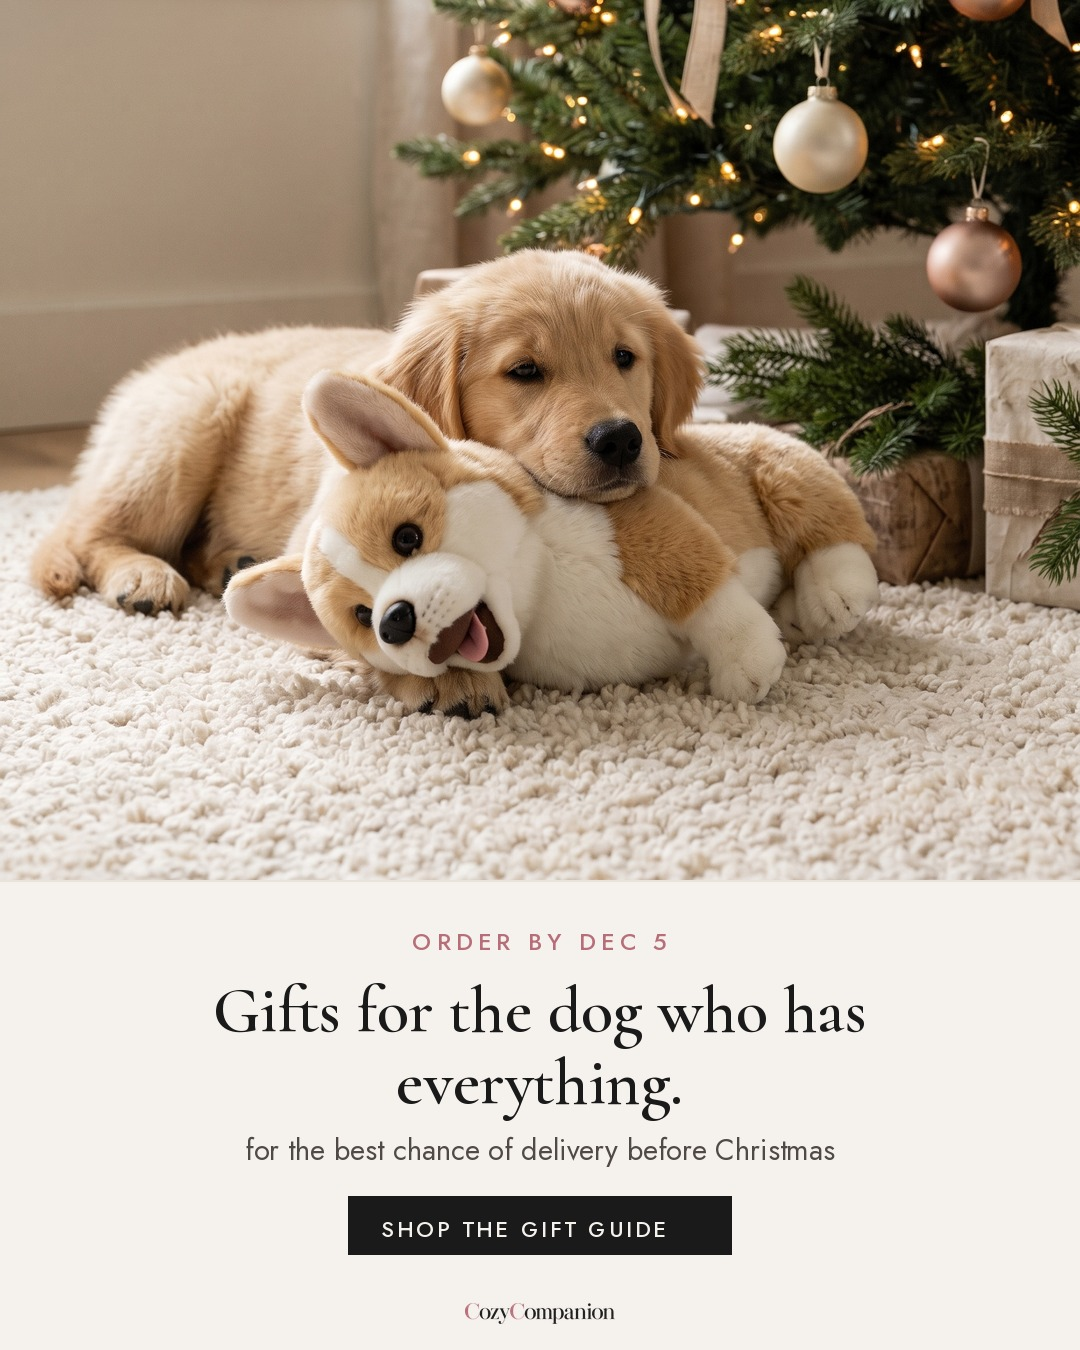
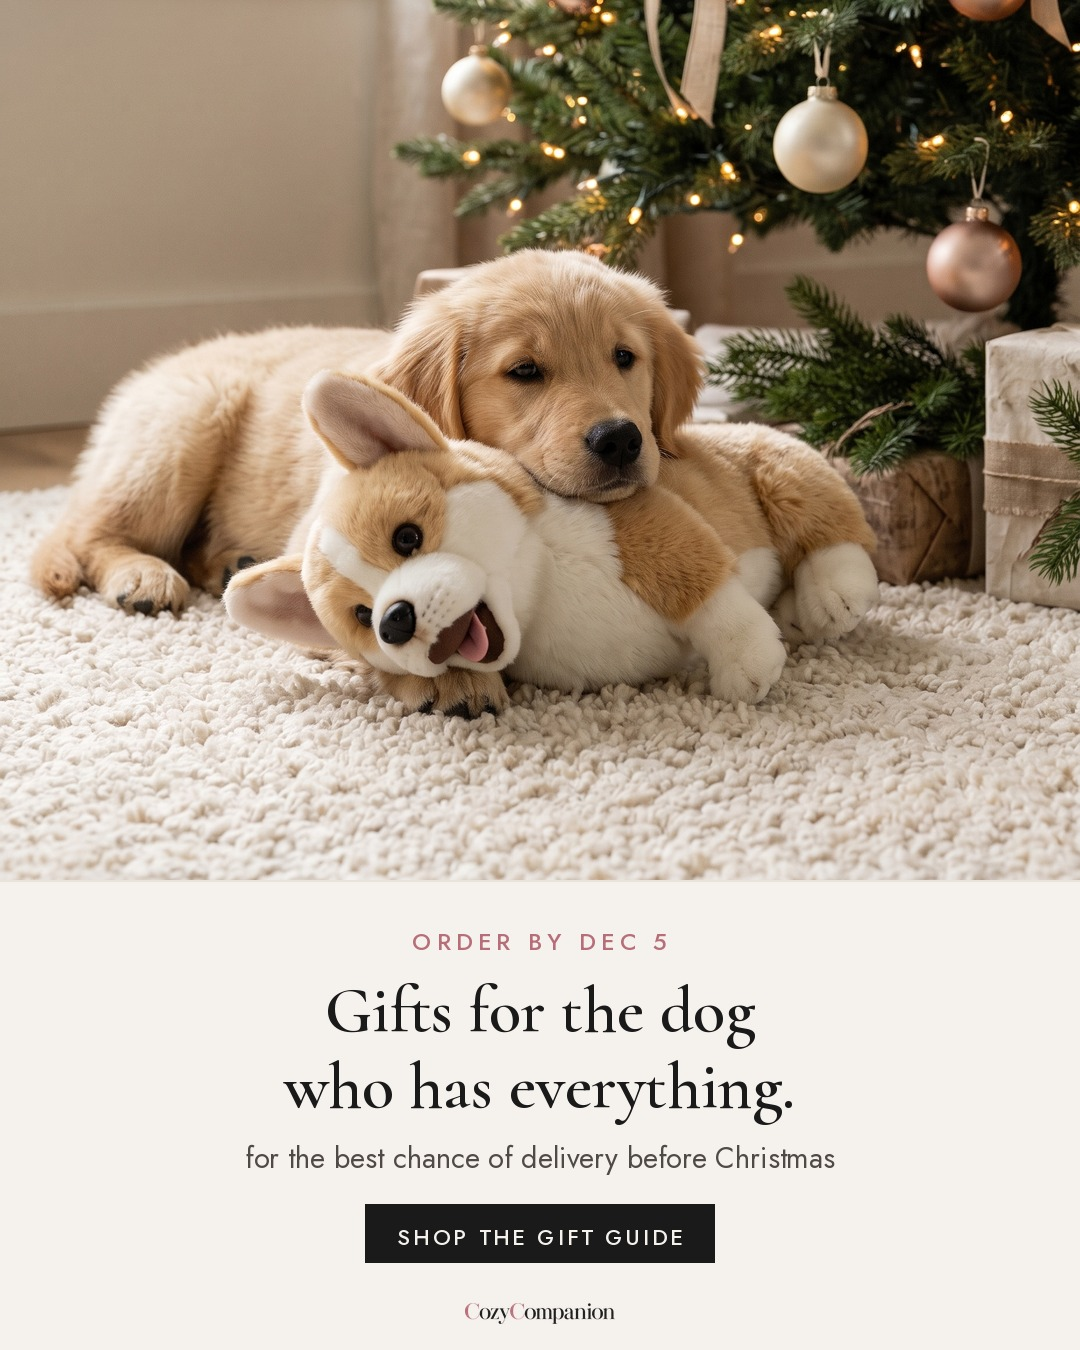
Q4 December ad creatives (interim)
Claude-Session: https://claude.ai/code/session_019n9fWS4KRciZxzszb4UYFh

Changed region(s): [[0.1833, 0.7156, 0.7944, 0.9333]]

diff --git a/cozycompanion/q4/make_dec_ads.py b/cozycompanion/q4/make_dec_ads.py
@@ -23,12 +23,12 @@ def photo(name):
 
 # id: eyebrow, headline, line, cta, 4:5 photo (+focus y), 9:16 photo (+focus y)
 ADS = {
-    "D1":  ("THE COZY SEASON", "Gifts for the dog who has everything.", None, "Shop the gift guide", ("f_2026-12-02_1_raw", .62), ("st_2026-12-02_raw", .52)),
-    "D1b": ("ORDER BY DEC 5", "Gifts for the dog who has everything.", "for the best chance of delivery before Christmas", "Shop the gift guide", ("f_2026-12-02_1_raw", .62), ("st_2026-12-02_raw", .52)),
-    "D2":  ("THE COZY SEASON", "Gifts for the cat who rules the house.", None, "Shop the gift guide", ("f_2026-12-03_0_raw", .60), ("st_2026-12-03_raw", .62)),
-    "D2b": ("ORDER BY DEC 5", "Gifts for the cat who rules the house.", "for the best chance of delivery before Christmas", "Shop the gift guide", ("f_2026-12-03_0_raw", .60), ("st_2026-12-03_raw", .62)),
+    "D1":  ("THE COZY SEASON", "Gifts for the dog\nwho has everything.", None, "Shop the gift guide", ("f_2026-12-02_1_raw", .62), ("st_2026-12-02_raw", .52)),
+    "D1b": ("ORDER BY DEC 5", "Gifts for the dog\nwho has everything.", "for the best chance of delivery before Christmas", "Shop the gift guide", ("f_2026-12-02_1_raw", .62), ("st_2026-12-02_raw", .52)),
+    "D2":  ("THE COZY SEASON", "Gifts for the cat\nwho rules the house.", None, "Shop the gift guide", ("f_2026-12-03_0_raw", .60), ("st_2026-12-03_raw", .62)),
+    "D2b": ("ORDER BY DEC 5", "Gifts for the cat\nwho rules the house.", "for the best chance of delivery before Christmas", "Shop the gift guide", ("f_2026-12-03_0_raw", .60), ("st_2026-12-03_raw", .62)),
     "D3":  ("COMPLETE THE SET", "The Cozy Nap Set.", "20% off automatically when you buy the set", "Shop the set", ("f_2026-12-12_0_raw", .64), ("st_2026-12-12_raw", .66)),
-    "D4":  ("LAST-MINUTE GIFTING", "Too late to ship? Give a gift card.", "Delivered instantly by email", "Shop gift cards", ("f_2026-12-17_0_raw", .42), ("st_2026-12-17_v2_raw", .38)),
+    "D4":  ("LAST-MINUTE GIFTING", "Too late to ship?\nGive a gift card.", "Delivered instantly by email", "Shop gift cards", ("f_2026-12-17_0_raw", .42), ("st_2026-12-17_v2_raw", .38)),
 }
 NEEDS_APPROVAL = {"D4": "gift card product not created yet (gift cards must be activated in Shopify admin first)"}
 
@@ -42,6 +42,7 @@ def spaced(d, text, f, y, fill, sp, W):
     for c in text: d.text((x, y), c, font=f, fill=fill); x += d.textlength(c, font=f) + sp
 
 def wrap(d, text, f, maxw):
+    if "\n" in text: return text.split("\n")
     words, lines, cur = text.split(), [], ""
     for w in words:
         t = (cur + " " + w).strip()
@@ -61,16 +62,16 @@ def render(aid, fmt):
     d.line([(0, ph_h), (W, ph_h)], fill=SAND, width=2)
     fe, fh, fl, fc = font("Jost-500", 24), font("Cormorant-600", 66), font("Jost-400", 29), font("Jost-500", 22)
     hl = wrap(d, head, fh, W - 160)
-    block = 24 + 22 + len(hl) * 72 + (14 + 38 if line else 0) + 30 + 58
+    block = 24 + 22 + len(hl) * 76 + (14 + 38 if line else 0) + 30 + 58
     top = ph_h + 44 if fmt == "45" else 1240 + max(0, (320 - block) // 2)
     y = top
     spaced(d, eyebrow, fe, y, ROSE, 5, W); y += 24 + 22
     for t in hl:
-        d.text(((W - d.textlength(t, font=fh)) / 2, y), t, font=fh, fill=CHAR); y += 72
+        d.text(((W - d.textlength(t, font=fh)) / 2, y), t, font=fh, fill=CHAR); y += 76
     if line:
         y += 14; d.text(((W - d.textlength(line, font=fl)) / 2, y), line, font=fl, fill=(80, 74, 70)); y += 38
     y += 30
-    lab = cta.upper() + "  →"
+    lab = cta.upper()
     cw = sum(d.textlength(c, font=fc) for c in lab) + 3 * (len(lab) - 1) + 64
     x0 = (W - cw) / 2; d.rectangle([x0, y, x0 + cw, y + 58], fill=CHAR)
     spaced(d, lab, fc, y + 17, CREAM, 3, W)
